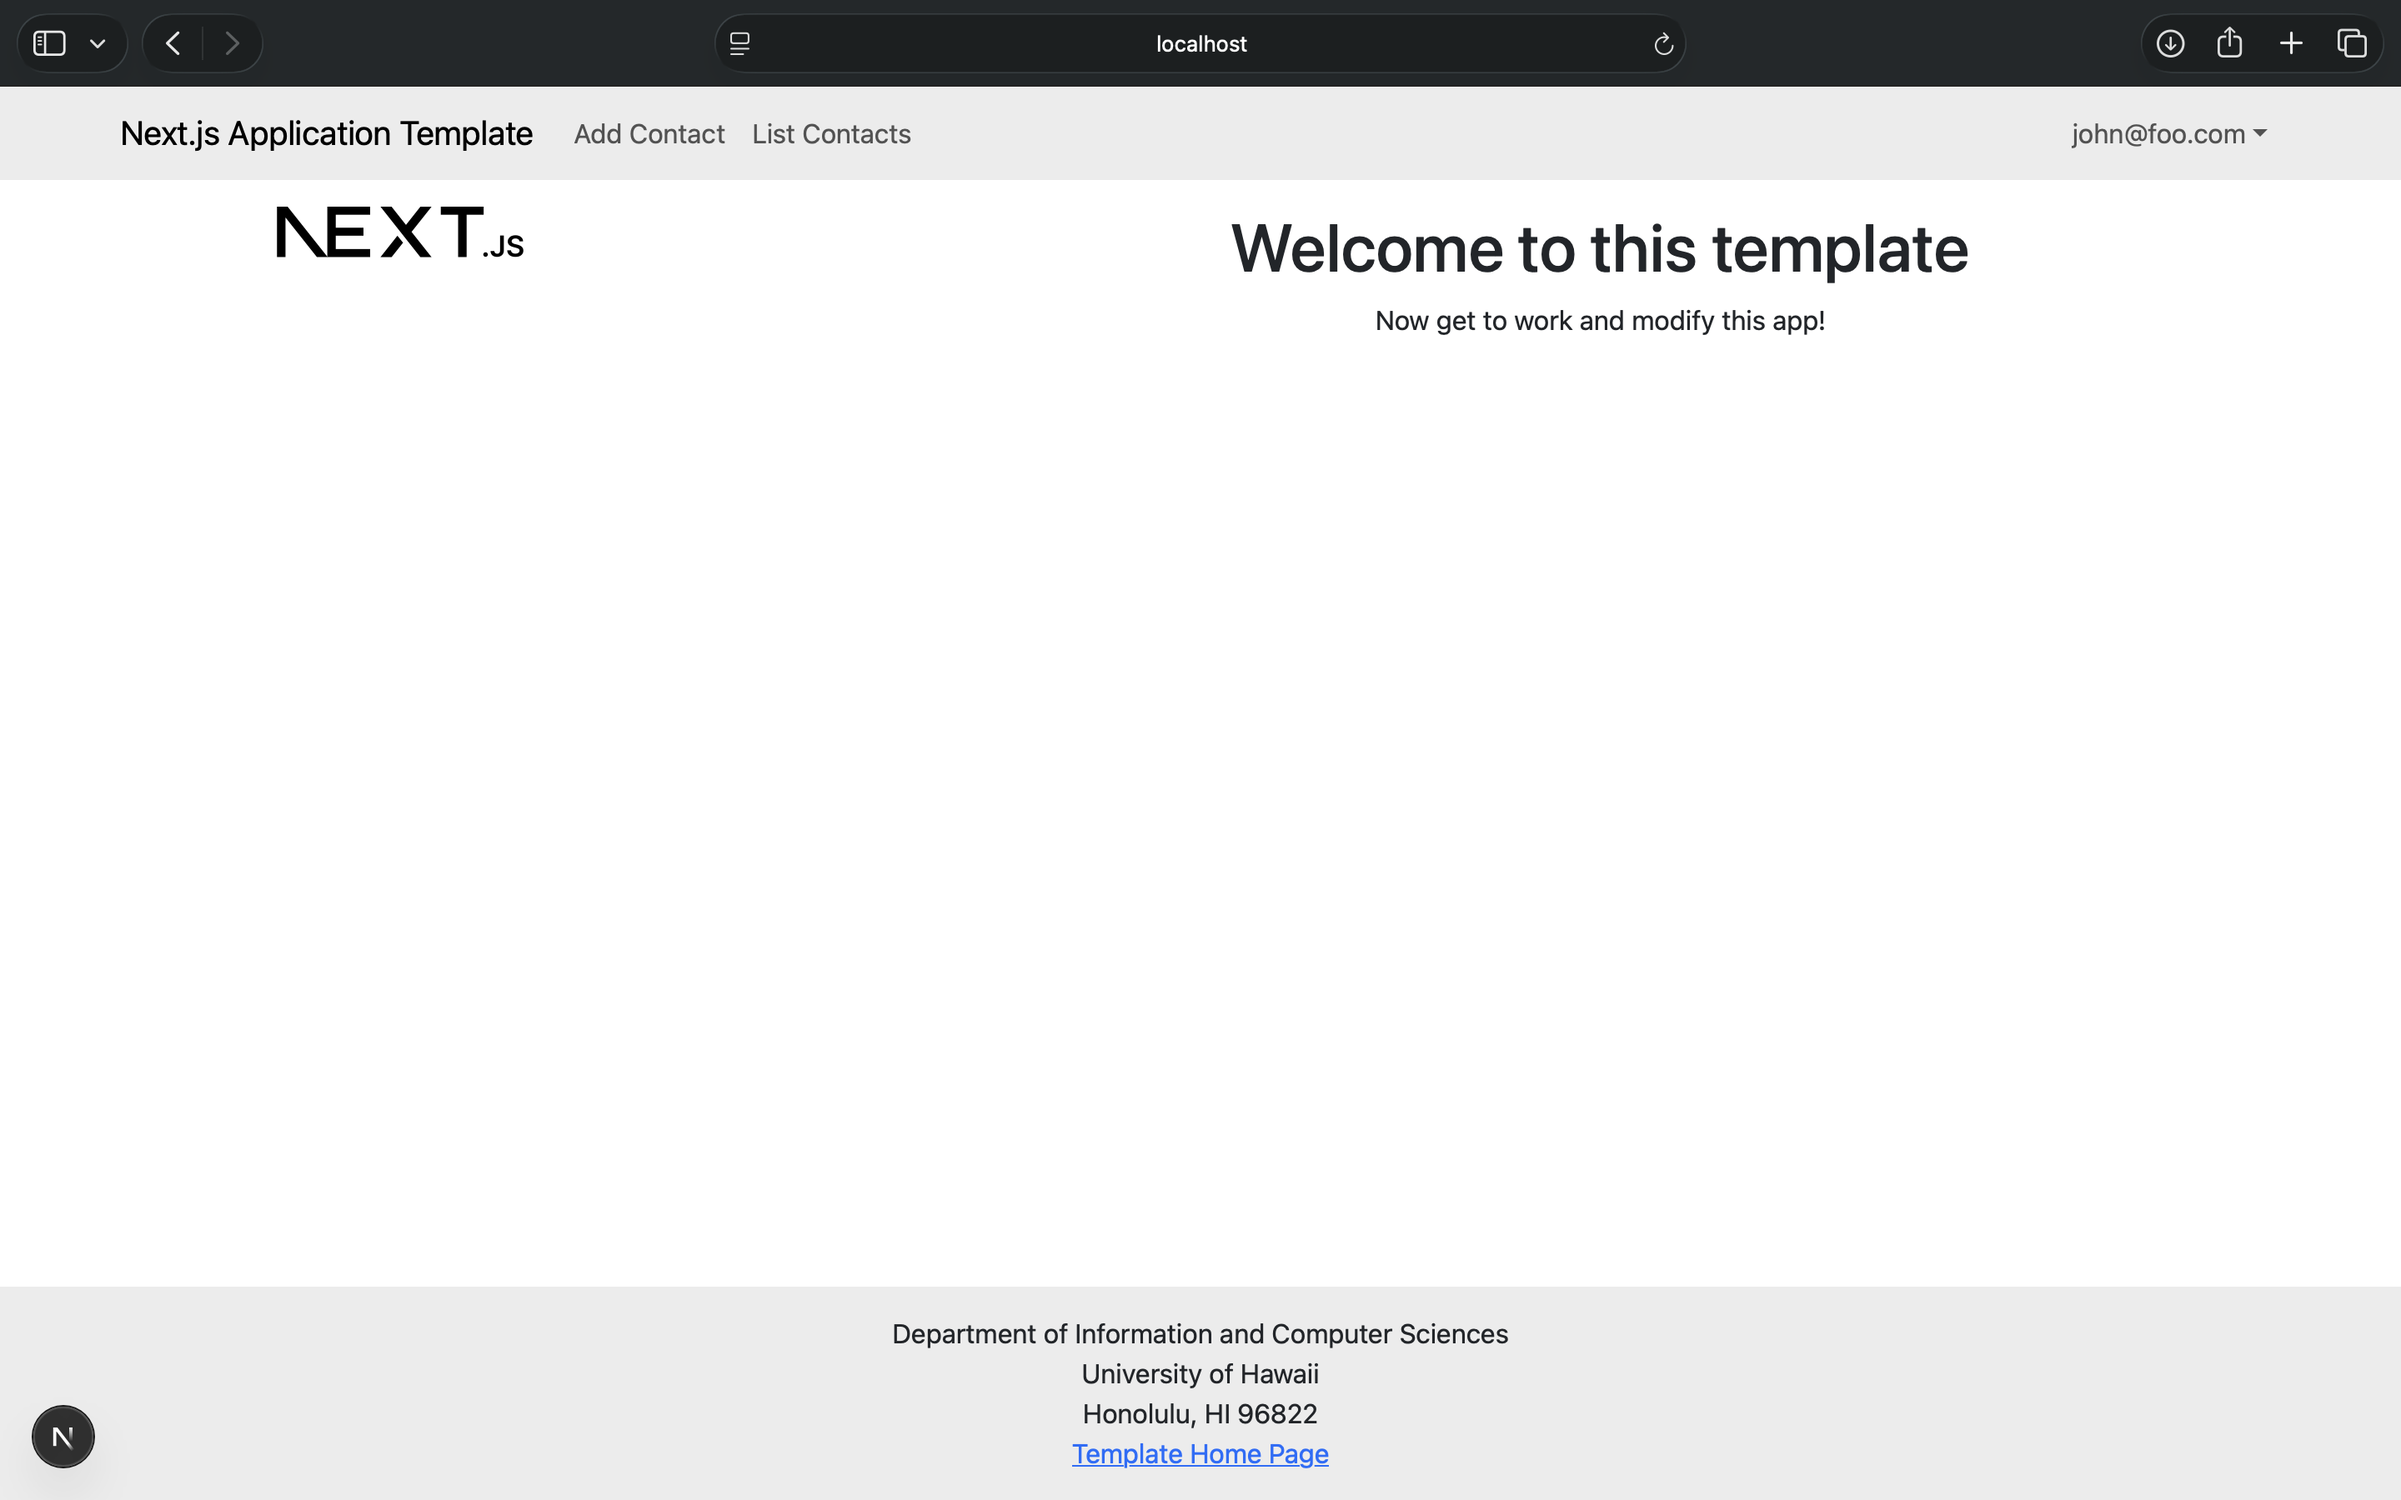
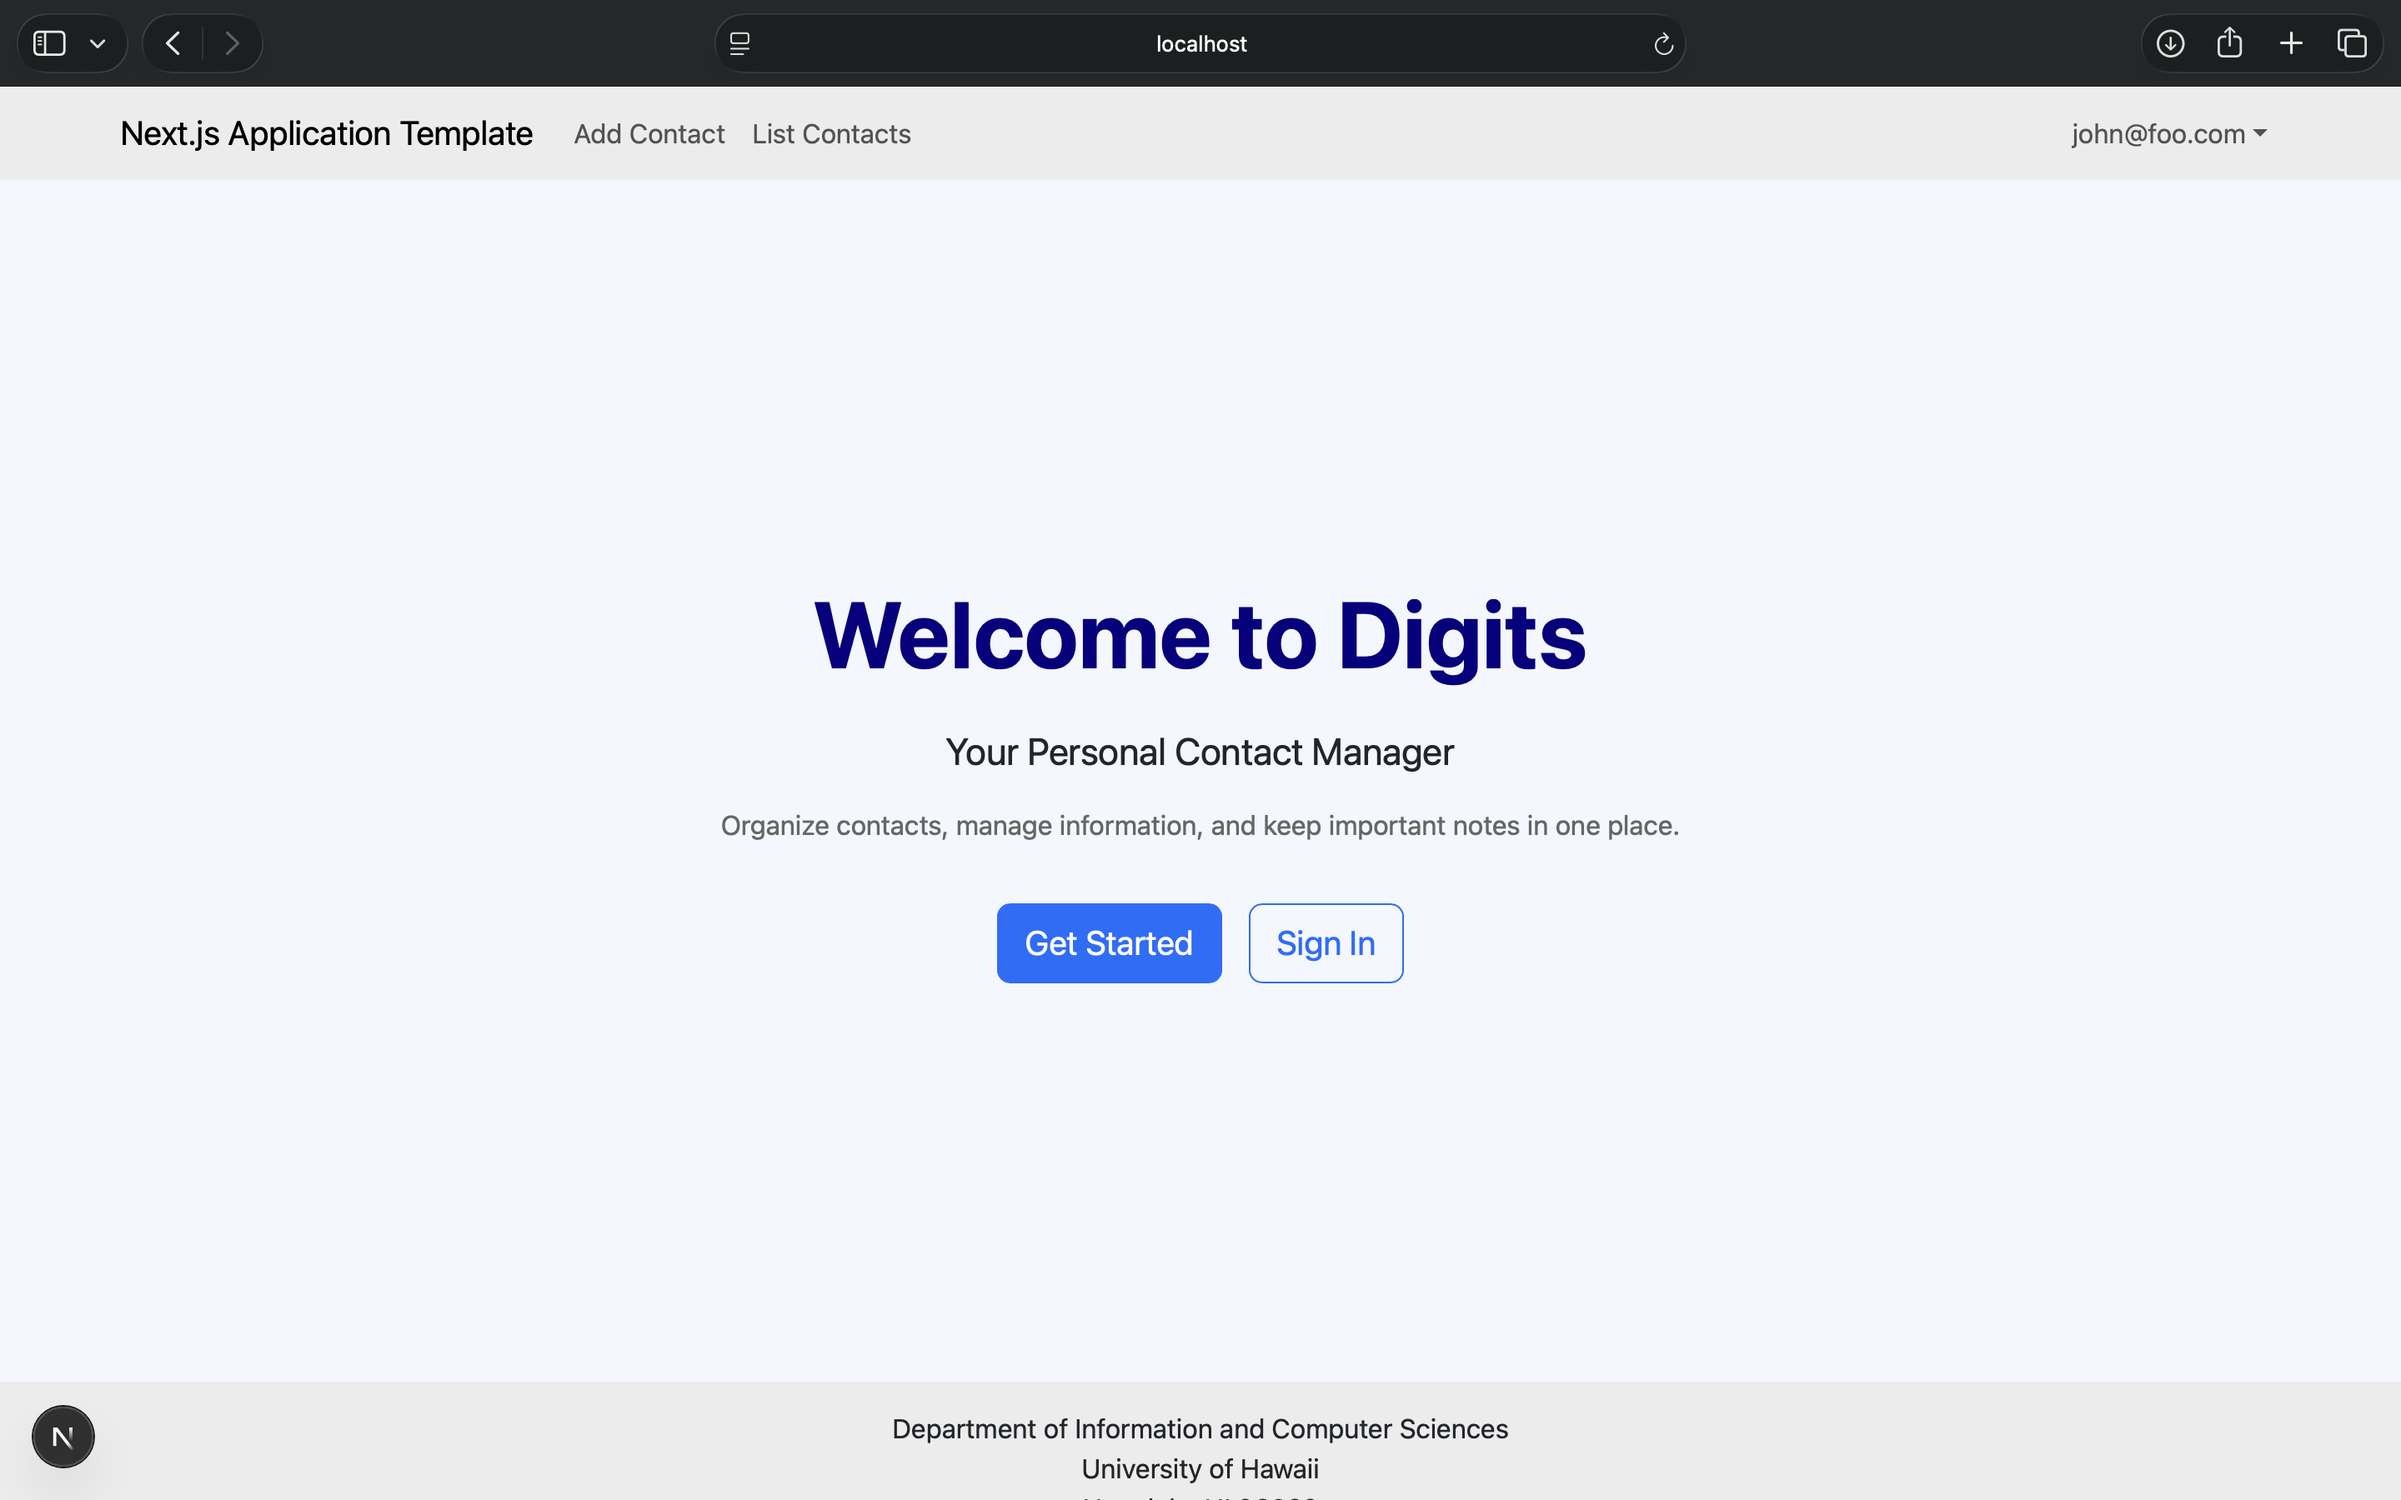
Customize Digits landing page

diff --git a/src/app/page.tsx b/src/app/page.tsx
@@ -1,21 +1,32 @@
-import { Col, Container, Image, Row } from 'react-bootstrap';
-
-/** The Home page. */
-const Home = () => (
-  <main>
-    <Container id="landing-page" fluid className="py-3">
-      <Row className="align-middle text-center">
-        <Col xs={4}>
-          <Image src="next.svg" width="150px" alt="" />
-        </Col>
-
-        <Col xs={8} className="d-flex flex-column justify-content-center">
-          <h1>Welcome to this template</h1>
-          <p>Now get to work and modify this app!</p>
-        </Col>
-      </Row>
-    </Container>
-  </main>
-);
-
-export default Home;
+/** Digits landing page. */
+export default function Home() {
+  return (
+    <main style={{
+      minHeight: '85vh',
+      backgroundColor: '#f5f7ff',
+      display: 'flex',
+      alignItems: 'center',
+      justifyContent: 'center',
+      textAlign: 'center',
+      padding: '40px'
+    }}>
+      <div>
+        <h1 style={{ color: '#080080', fontSize: '3.5rem', fontWeight: 'bold' }}>
+          Welcome to Digits
+        </h1>
+        <p style={{ fontSize: '1.4rem', marginTop: '20px' }}>
+          Your Personal Contact Manager
+        </p>
+        <p style={{ color: '#666', marginBottom: '35px' }}>
+          Organize contacts, manage information, and keep important notes in one place.
+        </p>
+        <a href="/auth/signup" className="btn btn-primary btn-lg me-3">
+          Get Started
+        </a>
+        <a href="/auth/signin" className="btn btn-outline-primary btn-lg">
+          Sign In
+        </a>
+      </div>
+    </main>
+  );
+}
